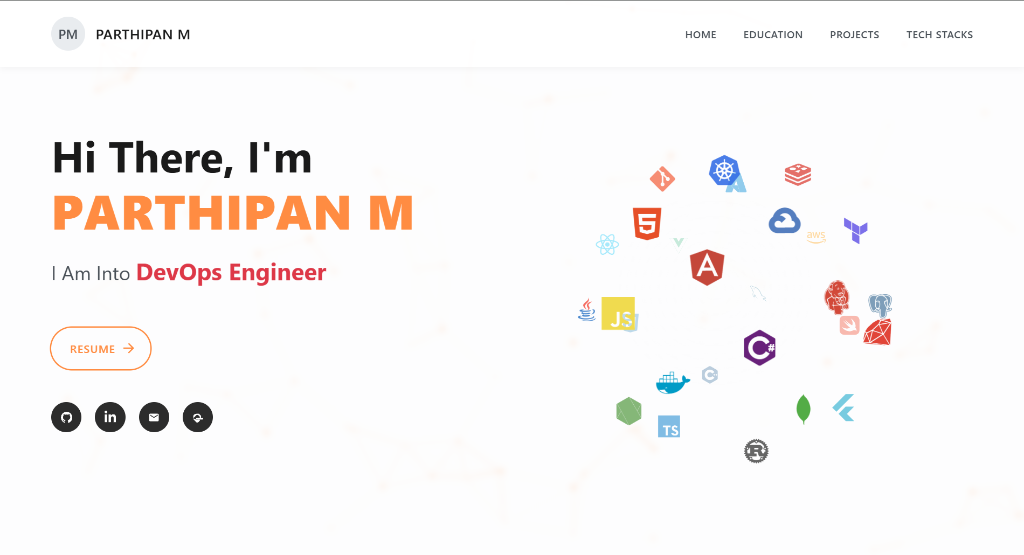
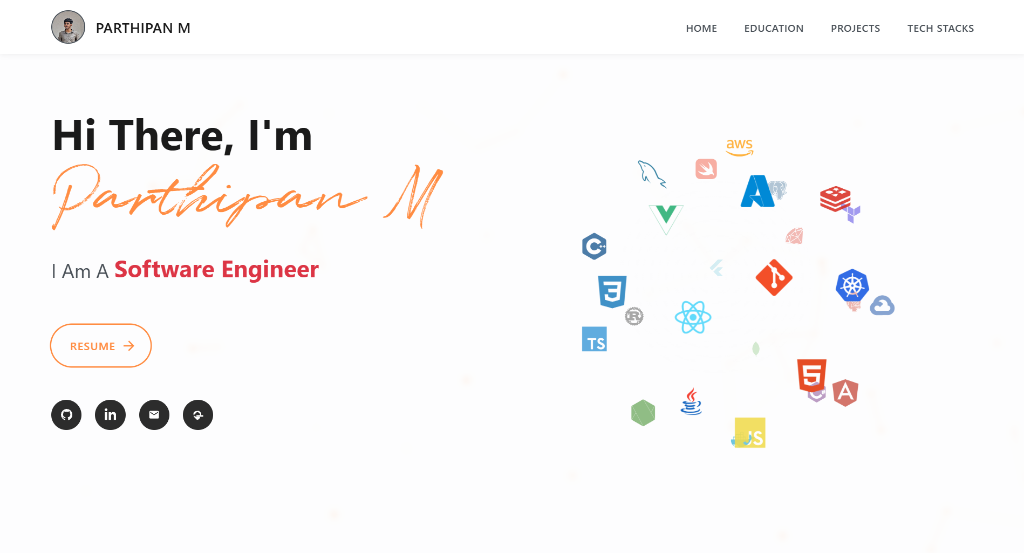
Update portfolio: adjust animated roles to Software/DevOps Engineer and replace SkyPort project image

diff --git a/index.html b/index.html
@@ -681,8 +681,8 @@
         <div class="hero-content">
             <h1>Hi There, I'm <span class="name">Parthipan M</span></h1>
             <div class="role-container">
-                <p>I Am Into</p>
-                <div class="role-text" id="roleText">Frontend Developer</div>
+                <p>I Am A</p>
+                <div class="role-text" id="roleText">Software Engineer</div>
             </div>
             <div class="button-container">
                 <a href="23CSR156_Parthipan_M.pdf" download="23CSR156_Parthipan_M.pdf" class="animated-button"
@@ -953,7 +953,9 @@
                 </div>
                 <div class="project-content">
                     <h3>SkyPort - Automated Portfolio Deployment</h3>
-                    <p>Implemented a multi-stage DevOps CI/CD pipeline using Jenkins and Docker for containerized local deployments, and GitHub Actions for automated multi-cloud delivery. Leveraged Terraform (IaC) to seamlessly deploy across AWS S3 and GitHub Pages.</p>
+                    <p>Implemented a multi-stage DevOps CI/CD pipeline using Jenkins and Docker for containerized local
+                        deployments, and GitHub Actions for automated multi-cloud delivery. Leveraged Terraform (IaC) to
+                        seamlessly deploy across AWS S3 and GitHub Pages.</p>
                     <div class="project-buttons">
                         <a href="#" class="btn btn-primary">LIVE DEMO</a>
                         <a href="https://github.com/Parthipan868/Portfolio-" target="_blank"
@@ -972,7 +974,10 @@
                 </div>
                 <div class="project-content">
                     <h3>Xoraaicicd - AWS CI/CD Pipeline</h3>
-                    <p>Engineered a serverless CI/CD pipeline using AWS CodePipeline and CodeBuild to automate global deployments to Amazon S3. Utilized Dockerized build environments powered by AWS ECR Public images to ensure consistent and reproducible releases. Delivered a highly reliable, fully automated commit-to-production deployment workflow.</p>
+                    <p>Engineered a serverless CI/CD pipeline using AWS CodePipeline and CodeBuild to automate global
+                        deployments to Amazon S3. Utilized Dockerized build environments powered by AWS ECR Public
+                        images to ensure consistent and reproducible releases. Delivered a highly reliable, fully
+                        automated commit-to-production deployment workflow.</p>
                     <div class="project-buttons">
                         <a href="https://xoraaicicd.s3.us-east-1.amazonaws.com/index.html" target="_blank"
                             class="btn btn-primary">LIVE DEMO</a>
@@ -992,7 +997,10 @@
                 </div>
                 <div class="project-content">
                     <h3>DSA Master - MERN Application</h3>
-                    <p>Developed a three-tier MERN stack application, containerized using Docker, and implemented Jenkins CI/CD pipelines for automated build and deployment. Provisioned infrastructure using Terraform (IaC) and deployed the application on AWS EC2 and Azure Virtual Machines, enabling reliable and scalable multi-cloud deployments.</p>
+                    <p>Developed a three-tier MERN stack application, containerized using Docker, and implemented
+                        Jenkins CI/CD pipelines for automated build and deployment. Provisioned infrastructure using
+                        Terraform (IaC) and deployed the application on AWS EC2 and Azure Virtual Machines, enabling
+                        reliable and scalable multi-cloud deployments.</p>
                     <div class="project-buttons">
                         <a href="https://dsamaster-pied.vercel.app/" target="_blank" class="btn btn-primary">LIVE
                             DEMO</a>
@@ -1012,10 +1020,15 @@
                 </div>
                 <div class="project-content">
                     <h3>Invoice Tracker & DevOps Pipeline</h3>
-                    <p>Developed and deployed an end-to-end Invoice Generator Application by implementing a complete cloud-native and DevOps-oriented workflow. The project focused on infrastructure automation, CI/CD implementation, containerization, cloud deployment, and real-time monitoring to ensure scalability, reliability, and efficient application management.</p>
+                    <p>Developed and deployed an end-to-end Invoice Generator Application by implementing a complete
+                        cloud-native and DevOps-oriented workflow. The project focused on infrastructure automation,
+                        CI/CD implementation, containerization, cloud deployment, and real-time monitoring to ensure
+                        scalability, reliability, and efficient application management.</p>
                     <div class="project-buttons">
-                        <a href="https://hub.docker.com/repository/docker/parthipan86/invoice-devops-pipeline-backend/general" target="_blank" class="btn btn-primary">LIVE DEMO</a>
-                        <a href="https://github.com/Parthipan868/Invoice_Tracker_DevOps" target="_blank" class="btn btn-secondary">CODE REPOSITORY</a>
+                        <a href="https://hub.docker.com/repository/docker/parthipan86/invoice-devops-pipeline-backend/general"
+                            target="_blank" class="btn btn-primary">LIVE DEMO</a>
+                        <a href="https://github.com/Parthipan868/Invoice_Tracker_DevOps" target="_blank"
+                            class="btn btn-secondary">CODE REPOSITORY</a>
                     </div>
                 </div>
             </div>
@@ -1199,8 +1212,7 @@
         }
     </style>
 
-    <script>const roles = ['Frontend Developer',
-            'Backend Developer',
+    <script>const roles = ['Software Engineer',
             'DevOps Engineer',
         ];
 
